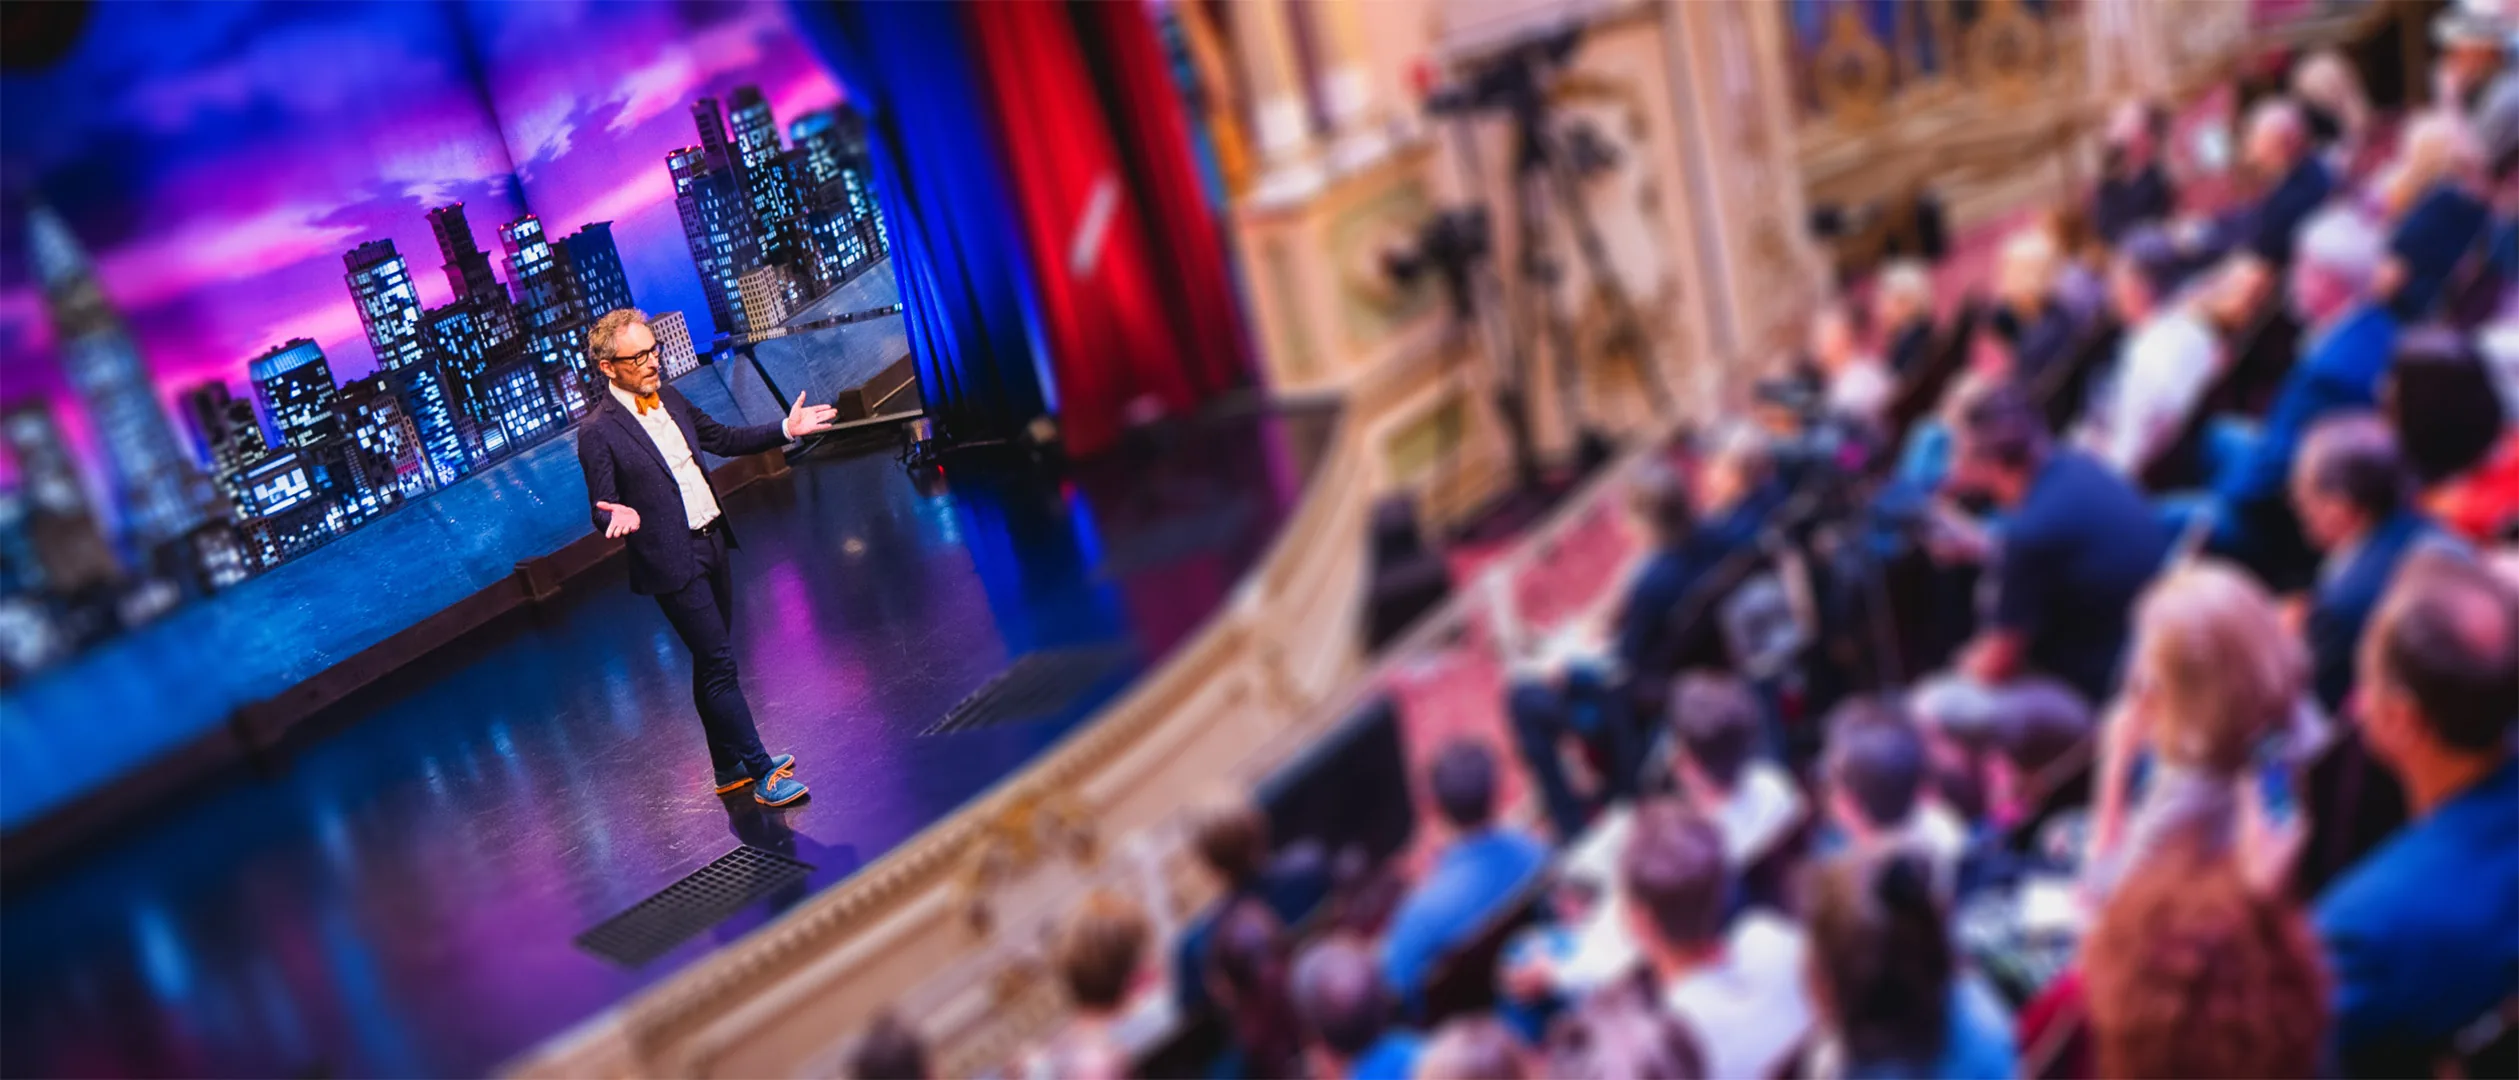
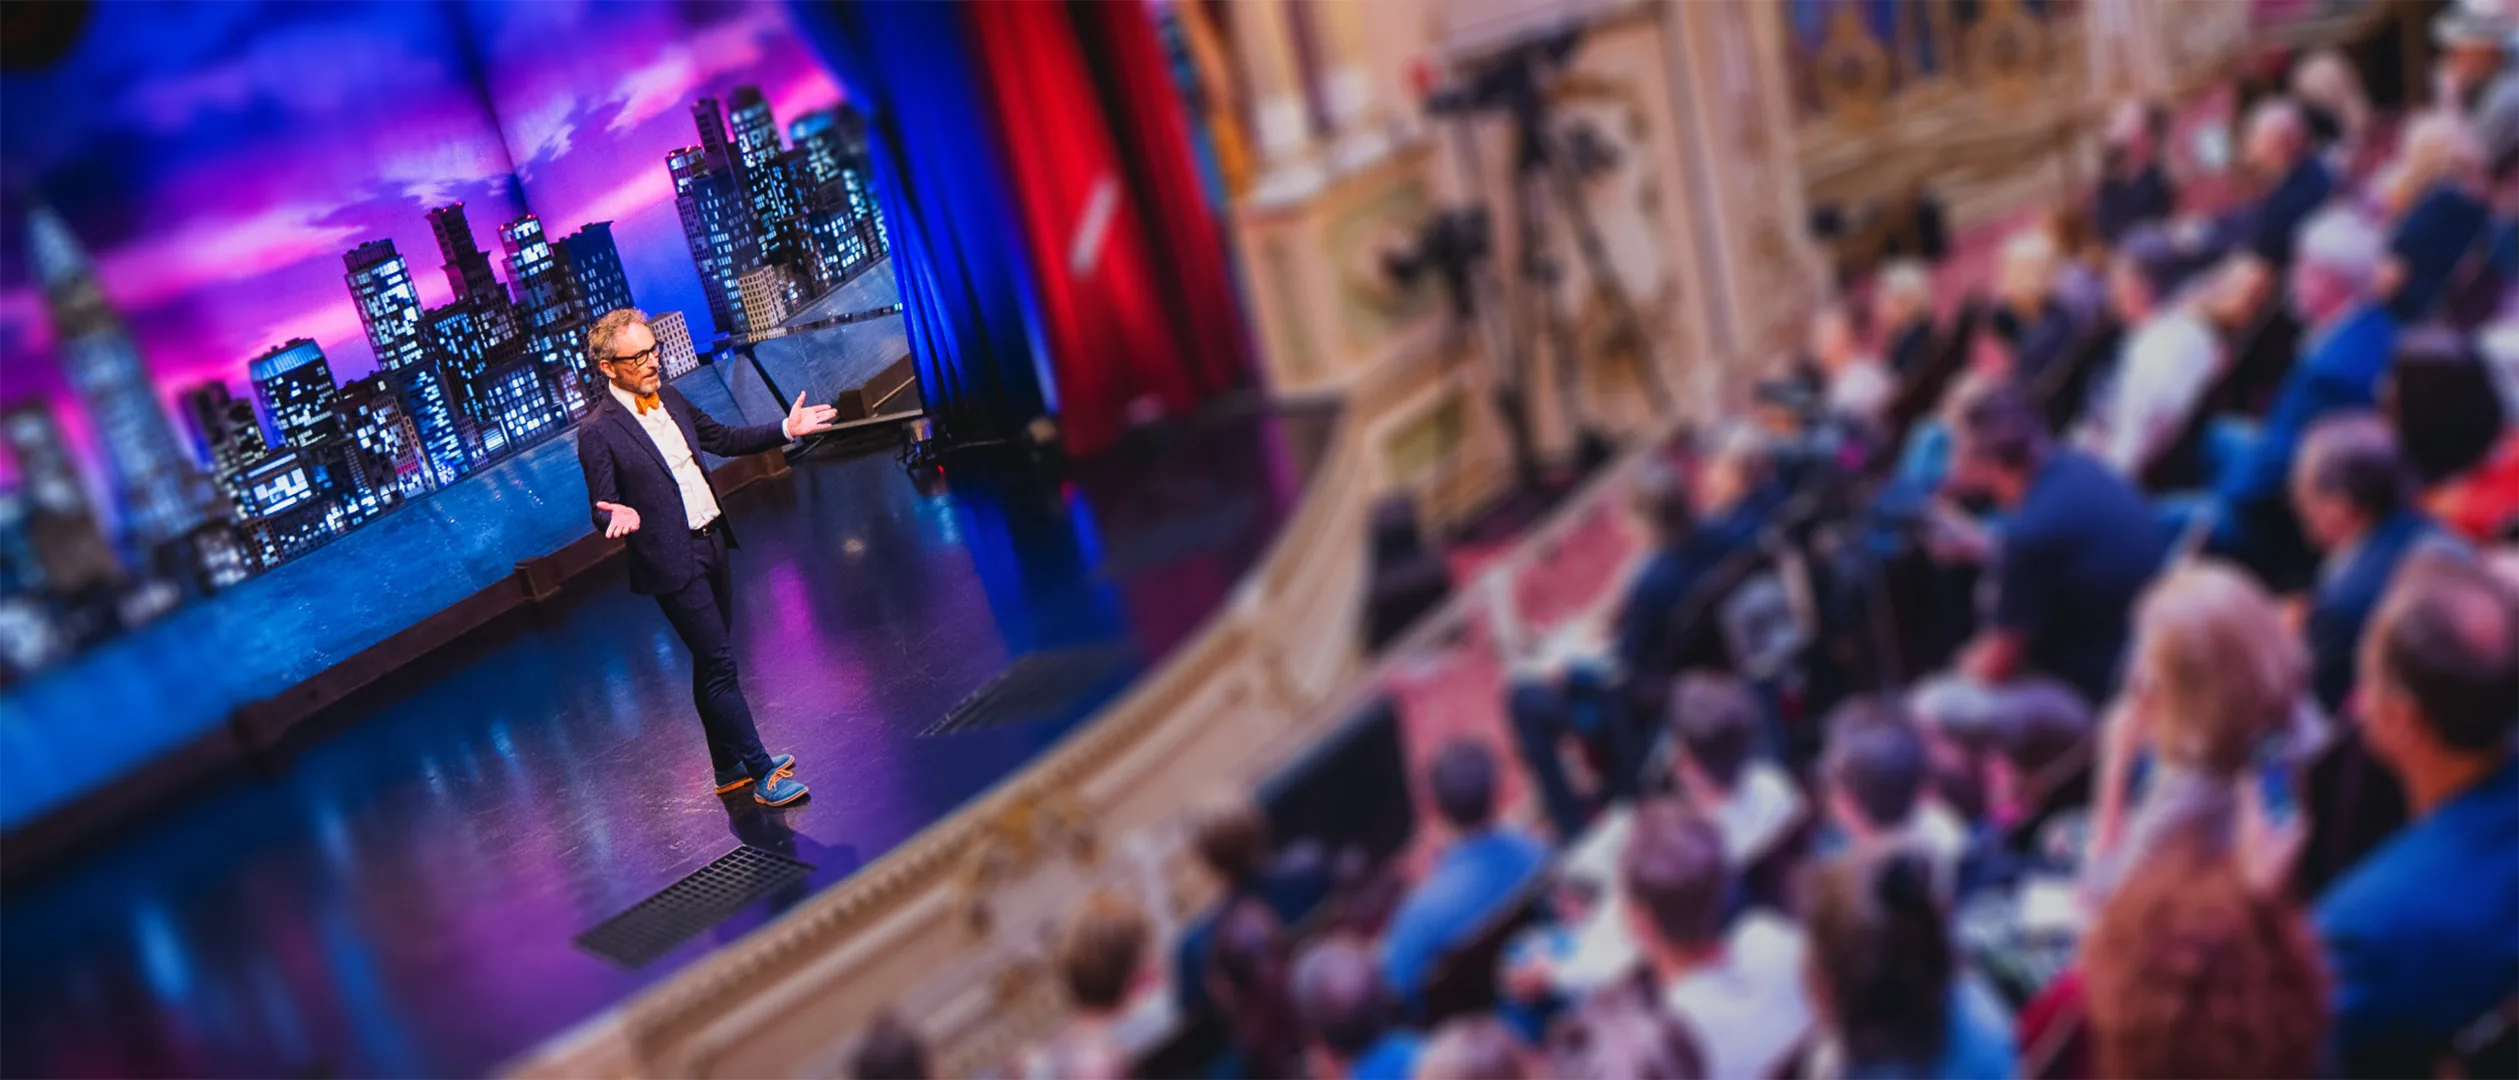
LP: ueberarbeitetes Reymann-Hero, Uebersicht zeigt die Bilder wieder
Das Hero-Bild ist neu aus der ueberarbeiteten Vorlage erzeugt (155 kB).

Die Uebersicht las das Motiv aus --hero-image-url; seit die Variable auf none
steht, griff der Fallback ins Leere und zeigte teils geloeschte Dateien
(iaw-blur-right, ny-blur-right). Sie liest jetzt background-image — alle elf
Karten laden ihr Bild.

diff --git a/LP/index.html b/LP/index.html
@@ -170,8 +170,8 @@
         </div>
       </article>
       <article class="card">
-        <a class="hero " href="./lp1b.html"
-           style="background-image: url('./assets/hero-ny-blur-right.webp'); background-position: 30% 40%;">
+        <a class="hero hero--rechts" href="./lp1b.html"
+           style="background-image: url('./assets/hero-reymann-blur-left.webp'); background-position: 62% 45%;">
           <span class="hero__box">
             <span class="hero__eyebrow">Keynotes über KI, die beim Menschen anfangen</span>
             <span class="hero__titel">KI verstehen. Zukunft anders sehen.</span>
@@ -197,7 +197,7 @@
       </article>
       <article class="card">
         <a class="hero " href="./lp2.html"
-           style="background-image: url('./assets/hero-iaw-blur-right.webp'); background-position: 30% 40%;">
+           style="background-image: url('./assets/hero-ooe-blur-right.webp'); background-position: 70% 42%;">
           <span class="hero__box">
             <span class="hero__eyebrow">Robotik-Keynotes</span>
             <span class="hero__titel">Der Roboter verlässt den Käfig</span>
@@ -222,8 +222,8 @@
         </div>
       </article>
       <article class="card">
-        <a class="hero " href="./lp3.html"
-           style="background-image: url('./assets/hero-ny-blur-right.webp'); background-position: 30% 40%;">
+        <a class="hero hero--rechts" href="./lp3.html"
+           style="background-image: url('./assets/hero-reymann-blur-left.webp'); background-position: 62% 45%;">
           <span class="hero__box">
             <span class="hero__eyebrow">Digitale Ethik</span>
             <span class="hero__titel">Digitale Ethik ohne Empörung</span>
@@ -379,7 +379,7 @@
       </article>
       <article class="card">
         <a class="hero " href="./lp9.html"
-           style="background-image: url('./assets/hero-iaw-blur-right.webp'); background-position: 30% 40%;">
+           style="background-image: url('./assets/hero-zuerich-blur-right.webp'); background-position: 20% 45%;">
           <span class="hero__box">
             <span class="hero__eyebrow">Keynotes für Handel und Marketing</span>
             <span class="hero__titel">Ihre wichtigste Zielgruppe ist bald kein Mensch mehr</span>
